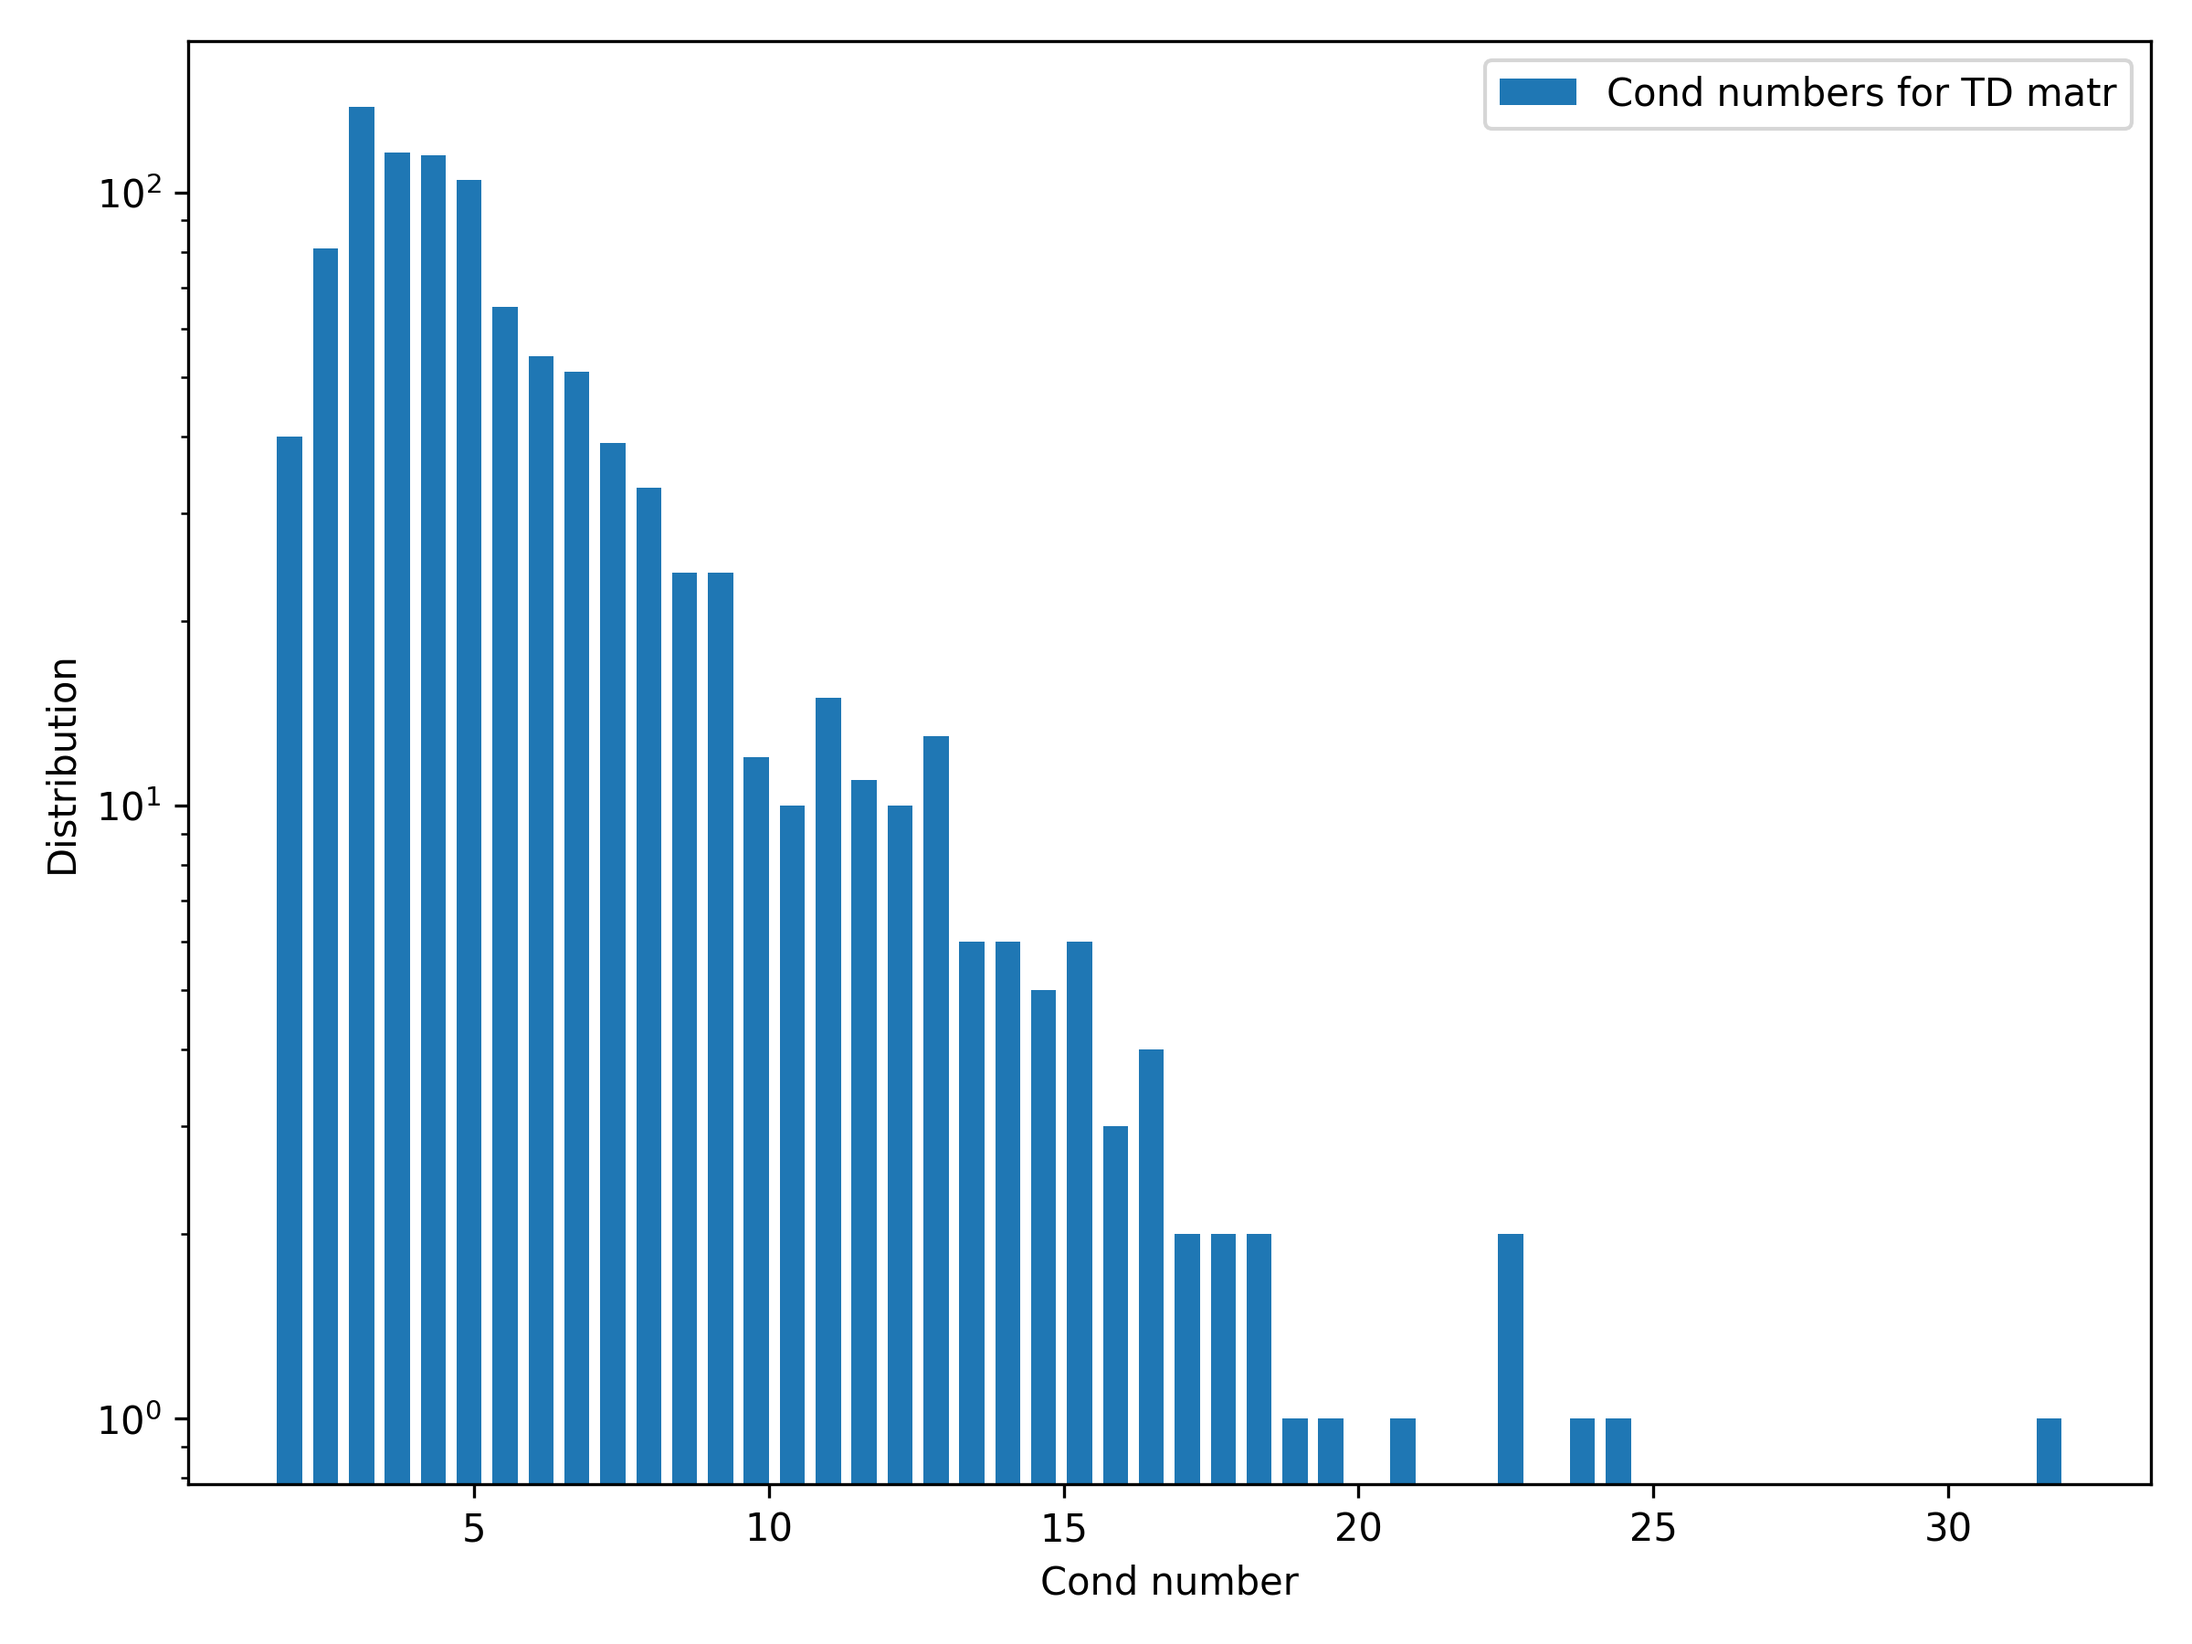
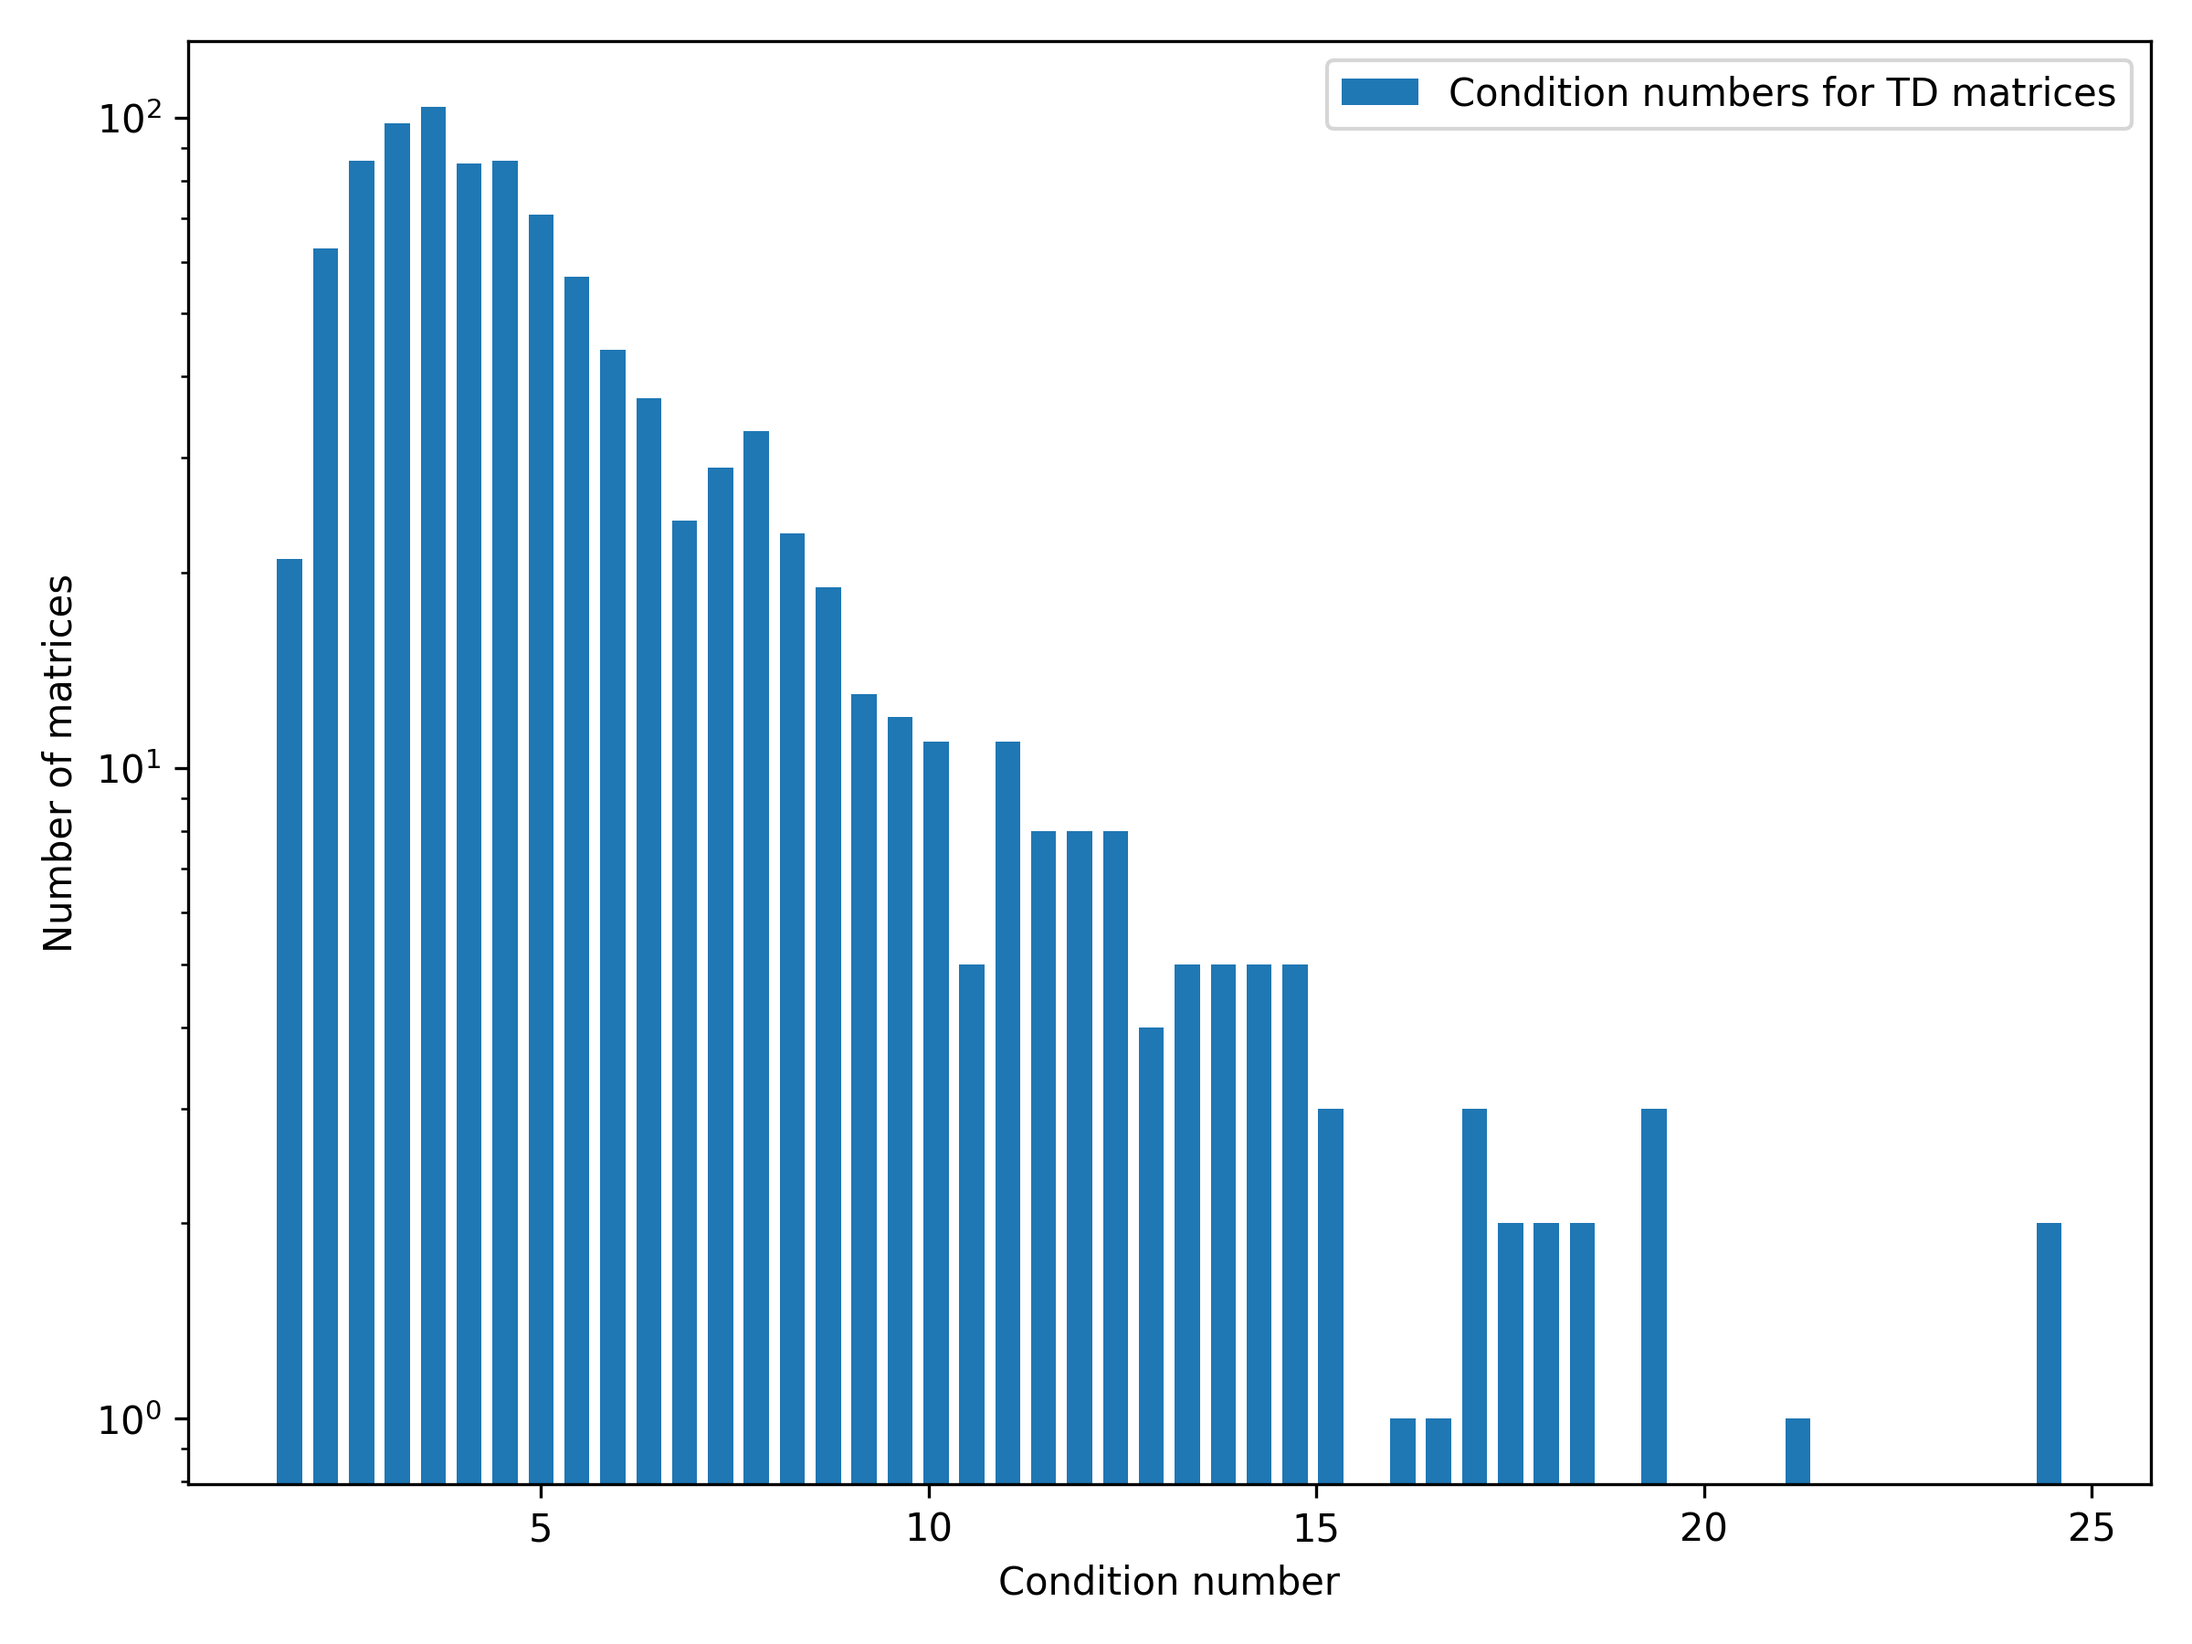
feat(lab4): src done

diff --git a/lab4/src/lab4.py b/lab4/src/lab4.py
@@ -1,24 +1,27 @@
 import numpy as np
 import pathlib
-import timeit
-from scipy.optimize import root
-from numpy.random import rand
+
 import labs.lab4.src.graphics as graph
 
-SAVE_FILE = True
+SAVE_FILE = False
 ROOT_DIR = str(pathlib.Path().absolute())
 PLOTS_DPI = 300
 
 SINGULAR_EPSILON = 1e-1
+SILVESTER_EPSILON = 5e-1
 
 
 def silvester_criterion(A):
     n = len(A)
 
     for k in range(2, n, 1):
-        if not np.linalg.det(A[:k, :k]) > 0:
+        if np.linalg.det(A[:k, :k]) < SILVESTER_EPSILON:
             return False
     return True
+
+
+def is_matrix_singular_old(A):
+    return np.linalg.det(A) == 0
 
 
 def is_matrix_singular(A):
@@ -113,6 +116,7 @@ def cholesky(A, b):
             if i == j:  # Diagonal element
                 under_sqrt_expression = A[i, i] - tmp_sum
                 if under_sqrt_expression < 0:
+                    print("Check negative: ", under_sqrt_expression)
                     raise ValueError("Negative value under sqrt. A matrix isn't positive definitive")
                 elif under_sqrt_expression == 0:
                     raise ValueError("L matrix is singular. A matrix isn't positive definitive")
@@ -191,13 +195,7 @@ def modify_to_DP(matrix):
     return matrix
 
 
-def modigy_to_PD(matrix):
-    n = len(matrix)
-
-    # while is_matrix_singular(matrix):
-    #     coef = gen_rand_on_interval(1, -1, 1)
-    #     matrix += coef * np.eye(n)
-
+def modify_to_PD(matrix):
     symm_matrix = np.dot(matrix, matrix.T)
 
     max_elem = np.max(np.abs(symm_matrix))
@@ -241,7 +239,7 @@ def generate_rand_matrix(n, type="default"):
     if type == "DP":
         gen_matrix = modify_to_DP(gen_matrix)
     elif type == "PD":
-        gen_matrix = modigy_to_PD(gen_matrix)
+        gen_matrix = modify_to_PD(gen_matrix)
     elif type == "TD":
         gen_matrix = modify_to_TD(gen_matrix)
 
@@ -256,29 +254,48 @@ def cond_number(matrix):
     return np.linalg.cond(matrix)
 
 
+def rel_err_rms(exact, approximate):
+    # Relative error using the RMS norm
+    n = len(exact)
+
+    absolute_err = np.sum([(exact[i] - approximate[i]) ** 2 for i in range(n)])
+    norm = np.sum([(exact[i] ** 2) for i in range(n)])
+
+    return np.sqrt(absolute_err) / np.sqrt(norm)
+
+
+def rel_err_supremum(exact, approximate):
+    # Relative error using the supremum norm
+    return np.max(np.abs(exact - approximate)) / np.max(np.abs(exact))
+
+
+def eigenvals_rel(matrix):
+    abs_matr_eigvals = np.abs(np.linalg.eigvals(matrix))
+    return np.max(abs_matr_eigvals) / np.min(abs_matr_eigvals)
+
+
 def main():
     print("Laboratory work #4 on the 'Computational Mathematics' course.\n Done by Kosenkov Aleksandr - RC6-64B\n")
 
-    # A = np.array([[1., 5., 3.],
-    #               [3., 4., 5.],
-    #               [6., 7., 8.]])
-    # b = np.array([[3.], [2.], [3.]])
-    # print("Gauss without pivoting:\n", gauss(A, b, False))
-    # print("Gauss with pivoting:\n", gauss(A, b))
-    # print("Real solution:\n", np.linalg.solve(A, b))
+    A = np.array([[1., 5., 3.],
+                  [3., 4., 5.],
+                  [6., 7., 8.]])
+    b = np.array([[3.], [2.], [3.]])
+    print("Gauss without pivoting:\n", gauss(A, b, False))
+    print("Gauss with pivoting:\n", gauss(A, b))
+    print("Real solution:\n", np.linalg.solve(A, b))
 
-    # A = np.array([[6., 3., 4.],
-    #               [3., 6., 5.],
-    #               [4., 5., 10.]])
-    # b = np.array([[3.], [2.], [3.]])
-    # print("Gauss with pivoting:\n", gauss(A, b))
-    # print("Cholesky decomposition:\n", cholesky(A, b))
-    # print("Real solution:\n", np.linalg.solve(A, b))
+    A = np.array([[6., 3., 4.],
+                  [3., 6., 5.],
+                  [4., 5., 10.]])
+    b = np.array([[3.], [2.], [3.]])
+    print("Gauss with pivoting:\n", gauss(A, b))
+    print("Cholesky decomposition:\n", cholesky(A, b))
+    print("Real solution:\n", np.linalg.solve(A, b))
 
     A = np.array([[1., 5., 0.],
                   [3., 4., 5., ],
                   [0., 7., 8.]])
-    print("Just test: ", np.linalg.det(A))
     b = np.array([[3.], [2.], [3.]])
     print("Gauss with pivoting:\n", gauss(A, b))
     print("Thomas method:\n", thomas(A, b))
@@ -292,6 +309,23 @@ def main():
         "PD": silvester_criterion
     }
 
+    default_methods = {
+        "default": lambda A, b: gauss(A, b, pivoting=False),
+        "DP": lambda A, b: gauss(A, b, pivoting=False),
+        "TD": thomas,
+        "PD": cholesky
+    }
+    # types = ["PD"]
+    # type_checkers = {
+    #     "PD": silvester_criterion
+    # }
+    #
+    # default_methods = {
+    #     "PD": cholesky
+    # }
+
+    b_sol = np.array([1., 1., 1., 1.]).T
+
     for type in types:
         matrices = []
         for i in range(1000):
@@ -302,7 +336,7 @@ def main():
 
             matrices.append(gen_matrix)
 
-        matrix_plots = graph.MatricesPlots(matrices_data=matrices, save_file=SAVE_FILE)
+        matrix_plots = graph.MatricesPlots(save_file=SAVE_FILE)
         spectral_rad = [spectral_radius(matrix) for matrix in matrices]
         cond_numbers = [cond_number(matrix) for matrix in matrices]
 
@@ -312,12 +346,30 @@ def main():
             np.linalg.det((matrices[max_cond_index]))
         ))
 
-        matrix_plots.show_hist(data=spectral_rad, columns_number=50, label="Spectral radius for {} matr".format(type),
-                               x_label="Spectral rad", name="spec_rad_{}_1e-1".format(type))
-        matrix_plots.show_hist(data=cond_numbers, columns_number=50, label="Cond numbers for {} matr".format(type),
-                               x_label="Cond number", name="cond_num_{}_1e-1".format(type))
+        matrix_plots.show_hist(data=spectral_rad, columns_number=50,
+                               label="Spectral radius for {} matrices".format(type),
+                               x_label="Spectral radius", name="spec_rad_{}_1e-1".format(type))
+        matrix_plots.show_hist(data=cond_numbers, columns_number=50,
+                               label="Condition numbers for {} matrices".format(type),
+                               x_label="Condition number", name="cond_num_{}_1e-1".format(type))
 
-    b_sol = np.array([1., 1., 1., 1.]).T
+        solutions_exact = [gauss(matrix, b_sol, pivoting=True) for matrix in matrices]
+        solutions_default = [default_methods[type](matrix, b_sol) for matrix in matrices]
 
+        rms_err = [rel_err_rms(exact=solutions_exact[i], approximate=solutions_default[i]) for i in
+                   range(len(solutions_exact))]
+        supremum_err = [rel_err_supremum(exact=solutions_exact[i], approximate=solutions_default[i]) for i in
+                        range(len(solutions_exact))]
+        eig_rels = [eigenvals_rel(matrix) for matrix in matrices]
+
+        matrix_plots.show_hist(data=rms_err, columns_number=50,
+                               label="Relative error using the RMS norm for {} matrices".format(type),
+                               x_label="Error", name="rms_err_{}".format(type))
+        matrix_plots.show_hist(data=supremum_err, columns_number=50,
+                               label="Relative error using the supremum norm for {} matrices".format(type),
+                               x_label="Error", name="supremum_err_{}".format(type))
+        matrix_plots.show_hist(data=eig_rels, columns_number=50,
+                               label="Relative max eigenvalue to min for {} matrices".format(type),
+                               x_label="Relative", name="eig_rel_{}".format(type))
 
 main()

diff --git a/lab4/src/graphics.py b/lab4/src/graphics.py
@@ -7,9 +7,8 @@ FIGSIZE = (8, 6)
 
 
 class MatricesPlots:
-    def __init__(self, matrices_data, dpi=200, save_file=False):
+    def __init__(self, dpi=200, save_file=False):
         self.dpi = dpi
-        self.matrices_data = matrices_data
         self.save_file = save_file
 
     def show_hist(self, data, columns_number=50, label=None, x_label="", name=""):
@@ -22,7 +21,7 @@ class MatricesPlots:
             axes.hist(data, bins=columns_number, rwidth=0.7, log=True)
 
         axes.set_xlabel(x_label)
-        axes.set_ylabel("Distribution")
+        axes.set_ylabel("Number of matrices")
 
         plt.show()
 
